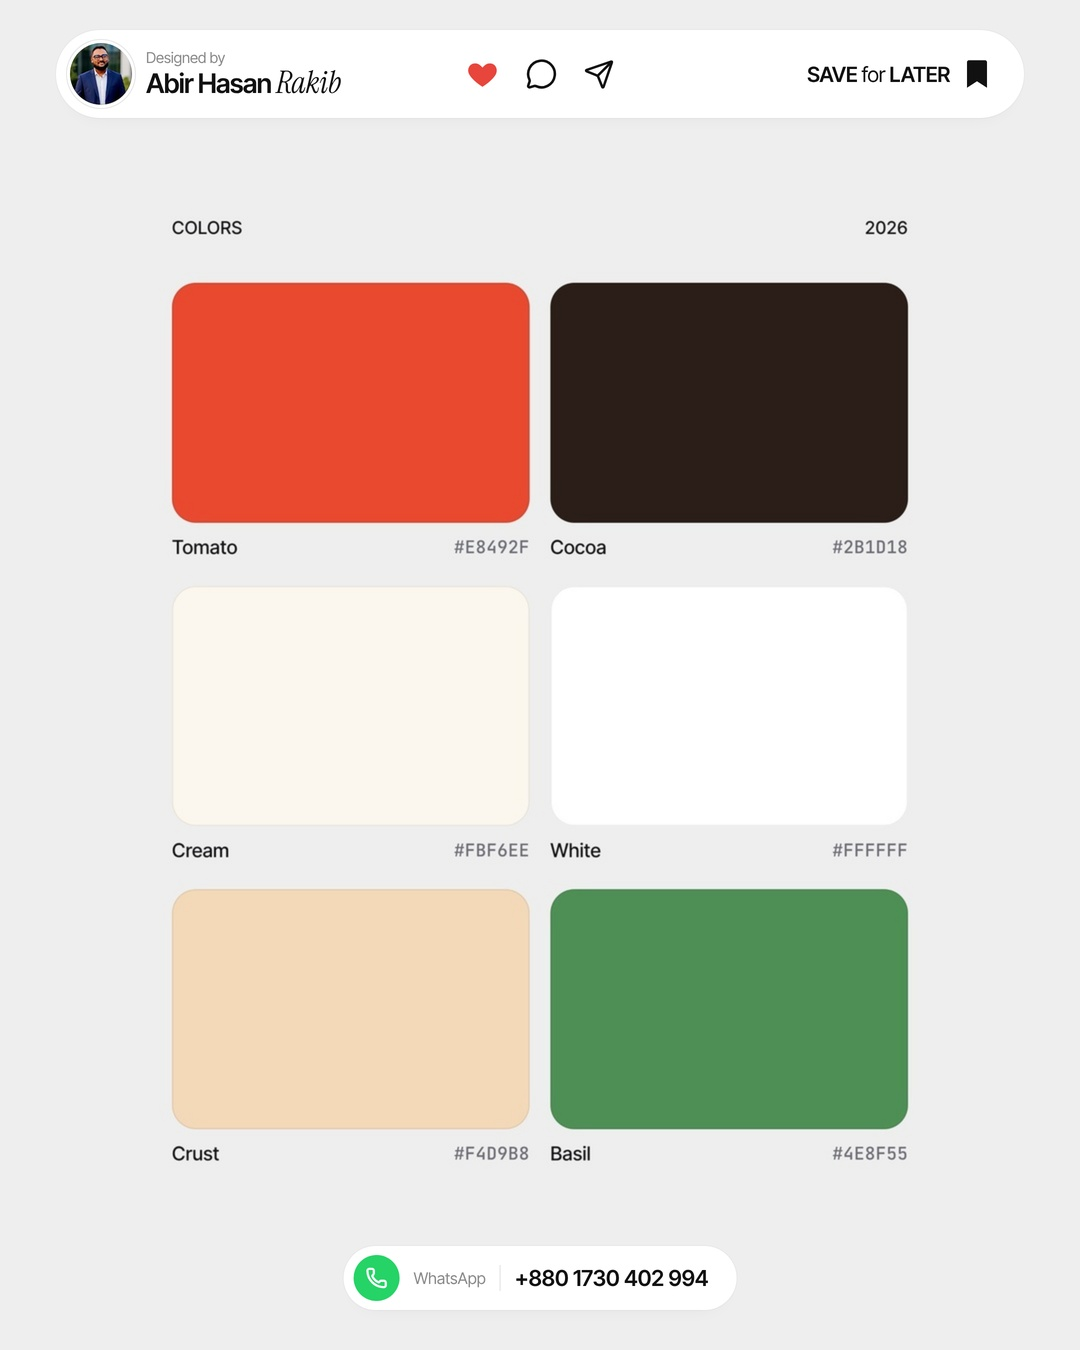
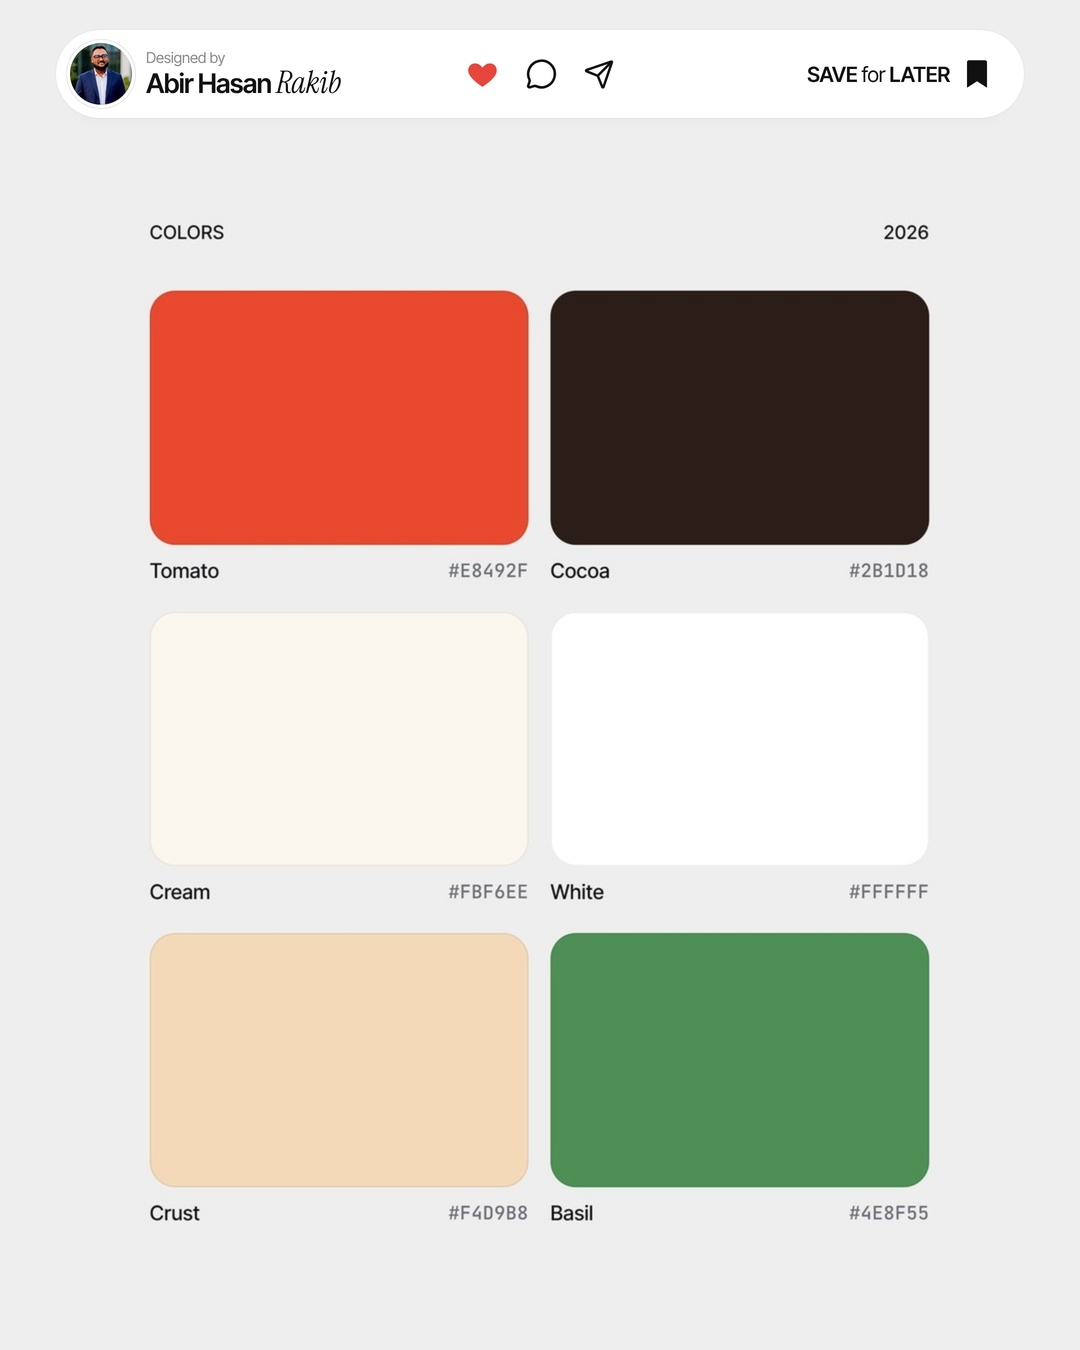
WhatsApp pill on dashboards only; app and website get the top bar only; re-render ready posts
Claude-Session: https://claude.ai/code/session_01Rx7czwabXTeMBMzdoEBv6n

diff --git a/tools/carousel.py b/tools/carousel.py
@@ -53,13 +53,15 @@ def window_html(shot_uri, url, k, x, y):
 # on every design slide of every type. The CTA slide is left unchanged. BRAND=0 turns it off.
 import os
 BRAND = os.environ.get('BRAND', '1') == '1'
-BRAND_TOP, BRAND_BOT = 150, 120          # canvas space the chrome takes (top bar, bottom pill)
+BRAND_TOP, BRAND_BOT = 150, 120          # canvas space the chrome takes (top bar, bottom WhatsApp pill)
+BRAND_BOT_NOWA = 56                      # bottom margin when there is no WhatsApp pill (app, website)
 
 
-def brand_html(bg_uri):
+def brand_html(bg_uri, wa=True):
     av = R.b64(R.ROOT / 'assets/brand/abir.jpg')
     heart = '<svg width="34" height="34" viewBox="0 0 24 24"><path d="M12 21s-7.5-4.6-9.6-9.2C.9 8.4 3 4.5 6.8 4.5c2.1 0 3.6 1.1 5.2 3 1.6-1.9 3.1-3 5.2-3 3.8 0 5.9 3.9 4.4 7.3C19.5 16.4 12 21 12 21z" fill="#E8453C"/></svg>'
     bm = '<svg width="26" height="30" viewBox="0 0 20 24"><path d="M2 2.5C2 1.7 2.7 1 3.5 1h13c.8 0 1.5.7 1.5 1.5V23l-8-5.2L2 23z" fill="#111"/></svg>'
+    WA = f"""<div class="wa"><i>{R.expand_icons('{{icon:phone:22:#fff:2.4}}')}</i><small>WhatsApp</small><span class="sep"></span><b>+880 1730 402 994</b></div>"""
     return f"""<!doctype html><html><head><meta charset=utf-8><link rel=stylesheet href="{(R.ROOT/'assets/fonts.css').as_uri()}"><style>{R.STAGE_CSS}
 .bg{{position:absolute;inset:0;background:url({bg_uri}) 0 0/1080px 1350px no-repeat}}
 .tb{{position:absolute;left:56px;right:56px;top:30px;height:88px;border-radius:44px;background:#fff;display:flex;align-items:center;padding:0 34px 0 14px;
@@ -81,7 +83,7 @@ def brand_html(bg_uri):
 <div class="tb"><div class="who"><span class="av"></span><div><small>Designed by</small><b>Abir Hasan <i>Rakib</i></b></div></div>
  <div class="mid">{heart}{R.expand_icons('{{icon:message-circle:32:#111:1.9}}{{icon:send:31:#111:1.9}}')}</div>
  <div class="sv"><span><b>SAVE</b> <em>for</em> <b>LATER</b></span>{bm}</div></div>
-<div class="wa"><i>{R.expand_icons('{{icon:phone:22:#fff:2.4}}')}</i><small>WhatsApp</small><span class="sep"></span><b>+880 1730 402 994</b></div>
+{WA if wa else ''}
 </div></body></html>"""
 
 
@@ -93,16 +95,16 @@ def make_room(jpg, mode):
     if mode == 'shift':
         c.paste(im, (0, BRAND_TOP - 20))
     else:
-        s_ = (H - BRAND_TOP - BRAND_BOT) / H
+        s_ = (H - BRAND_TOP - BRAND_BOT_NOWA) / H
         sm = im.resize((round(W * s_), round(H * s_)), Image.LANCZOS)
         c.paste(sm, ((W - sm.width) // 2, BRAND_TOP))
     c.save(jpg, quality=95)
 
 
-async def brand(b, work, jpg):
-    """Overlay the brand chrome on a finished design slide (in place)."""
+async def brand(b, work, jpg, wa=True):
+    """Overlay the brand chrome on a finished design slide (in place). Owner: WhatsApp pill on dashboards only."""
     p = work / 'brand.html'
-    p.write_text(brand_html(R.b64(pathlib.Path(jpg))))
+    p.write_text(brand_html(R.b64(pathlib.Path(jpg)), wa))
     await shot_html(b, p, work / 'brand.png', {'width': W, 'height': H}, 2)
     save(Image.open(work / 'brand.png').resize((W, H), Image.LANCZOS), jpg)
 
@@ -163,7 +165,7 @@ async def website(d, work, prefix, b):
     rh = H - top - 70                           # ends inside the frame so the footer shows
     if BRAND:
         top = BRAND_TOP + 12
-        lh = rh = H - top - BRAND_BOT - 12
+        lh = rh = H - top - BRAND_BOT_NOWA
     lx = (W - lw - rw - gap) // 2
     lsc, rsc = lw / pw, rw / pw
     left = page.crop((0, 0, pw, min(ph, round(lh / lsc))))
@@ -185,7 +187,7 @@ box-shadow:0 0 0 1px rgba(0,0,0,.04),0 20px 40px -28px rgba(20,20,30,.10)}}</sty
     card_h = H - ctop - 90
     if BRAND:
         ctop = BRAND_TOP + 12
-        card_h = H - ctop - BRAND_BOT - 12
+        card_h = H - ctop - BRAND_BOT_NOWA
     topimg = page.crop((0, 0, pw, round(card_h / sc)))
     html = f"""<!doctype html><html><head><meta charset=utf-8><style>{R.STAGE_CSS}
 .col{{position:absolute;background:#fff;border-radius:6px;overflow:hidden;
@@ -204,7 +206,7 @@ box-shadow:0 0 0 1px rgba(0,0,0,.04),0 20px 40px -28px rgba(20,20,30,.10)}}</sty
     def fit(k):
         s_ = (k * W - 300) / ph
         return s_, round(pw * s_)
-    maxb = H - BRAND_TOP - BRAND_BOT - 24 if BRAND else H - 90
+    maxb = H - BRAND_TOP - BRAND_BOT_NOWA - 12 if BRAND else H - 90
     k = max(2, round((ph * (maxb - 110) / pw + 300) / W))
     s_, band = fit(k)
     while band > maxb and k < 7:
@@ -223,7 +225,7 @@ box-shadow:0 0 0 1px rgba(0,0,0,.04),0 20px 40px -28px rgba(20,20,30,.10)}}</sty
         save(c, f'{prefix}-{i + 3}.jpg')
     if BRAND:
         for i in range(1, k + 3):
-            await brand(b, work, f'{prefix}-{i}.jpg')
+            await brand(b, work, f'{prefix}-{i}.jpg', wa=False)
     save(await cta_slide(b, work), f'{prefix}-{k + 3}.jpg')
 
 
@@ -341,7 +343,7 @@ async def app(d, work, prefix, b):
     if BRAND:
         for i in range(1, 5):
             make_room(f'{prefix}-{i}.jpg', 'shift' if i == 1 else 'scale')
-            await brand(b, work, f'{prefix}-{i}.jpg')
+            await brand(b, work, f'{prefix}-{i}.jpg', wa=False)
     save(await cta_slide(b, work), f'{prefix}-5.jpg')
 
 

diff --git a/PLAYBOOK.md b/PLAYBOOK.md
@@ -9,7 +9,7 @@ Match these approved posts exactly in presentation; only the design inside the s
 - Dashboard → `posts/2026-11/2026-11-09-pm-hospital-ops-dashboard-1.jpg` … `-4.jpg` (**carousel**: full window, left half, right half, CTA; no popup/zoom card)
 - Website → `posts/2026-11/2026-11-10-am-meeting-notes-website-1.jpg` … `-8.jpg` (**carousel**: whole home page in two columns, top of page large, the whole page rotated 90° in equal bands through the footer, CTA)
 
-Always: 1080×1350, `#EEEEEE` background, light UI, the brand chrome ("Designed by" bar + WhatsApp pill, see below) on the design slides; the fixed CTA slide stays last.
+Always: 1080×1350, `#EEEEEE` background, light UI, the brand chrome ("Designed by" bar on all types, WhatsApp pill on dashboards only, see below) on the design slides; the fixed CTA slide stays last.
 Do not edit `tools/render.py` or the mockup assets unless the owner asks.
 
 ## The schedule
@@ -155,7 +155,8 @@ new hero component, new chart mix, new palette) so no two posts look alike.
 
 Every design slide (not the CTA slide) carries the owner's chrome, added automatically by tools/carousel.py:
 a top pill with his photo (`assets/brand/abir.jpg`), "Designed by / Abir Hasan *Rakib*", heart/comment/share icons and
-"SAVE for LATER" + bookmark, and a WhatsApp pill (+880 1730 402 994) at the bottom. Layouts leave room for it
+"SAVE for LATER" + bookmark on EVERY post type; the WhatsApp pill (+880 1730 402 994) at the bottom goes on
+**dashboards only** (owner, 2026-11-14) — app and website slides get the top bar only. Layouts leave room for it
 (dashboard halves pan from each edge, website columns/bands sit between the bars, app slides shift/scale down).
 Mockup shadows are deliberately faint (owner: the old shadow was too heavy): 1px hairline + a soft, low-opacity drop.
 Do not darken them again. If the owner sends a sharper profile photo, replace `assets/brand/abir.jpg`.
